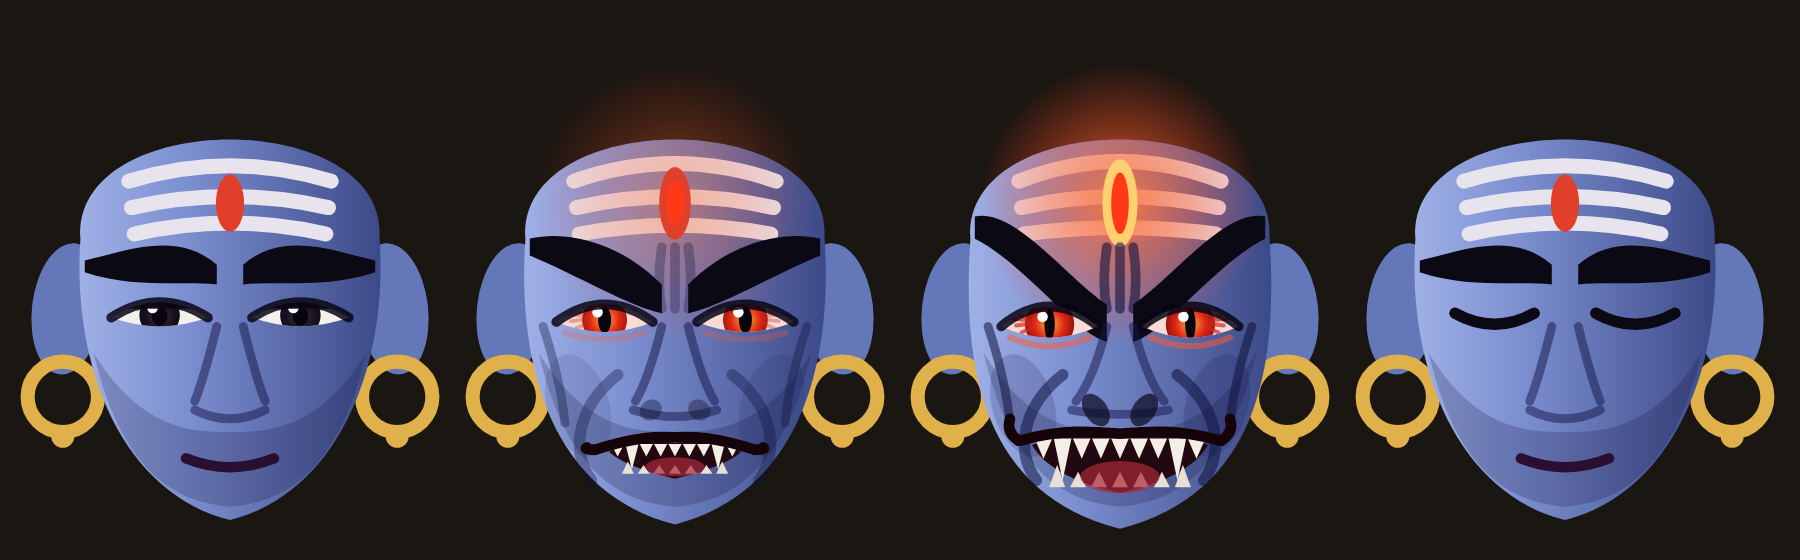
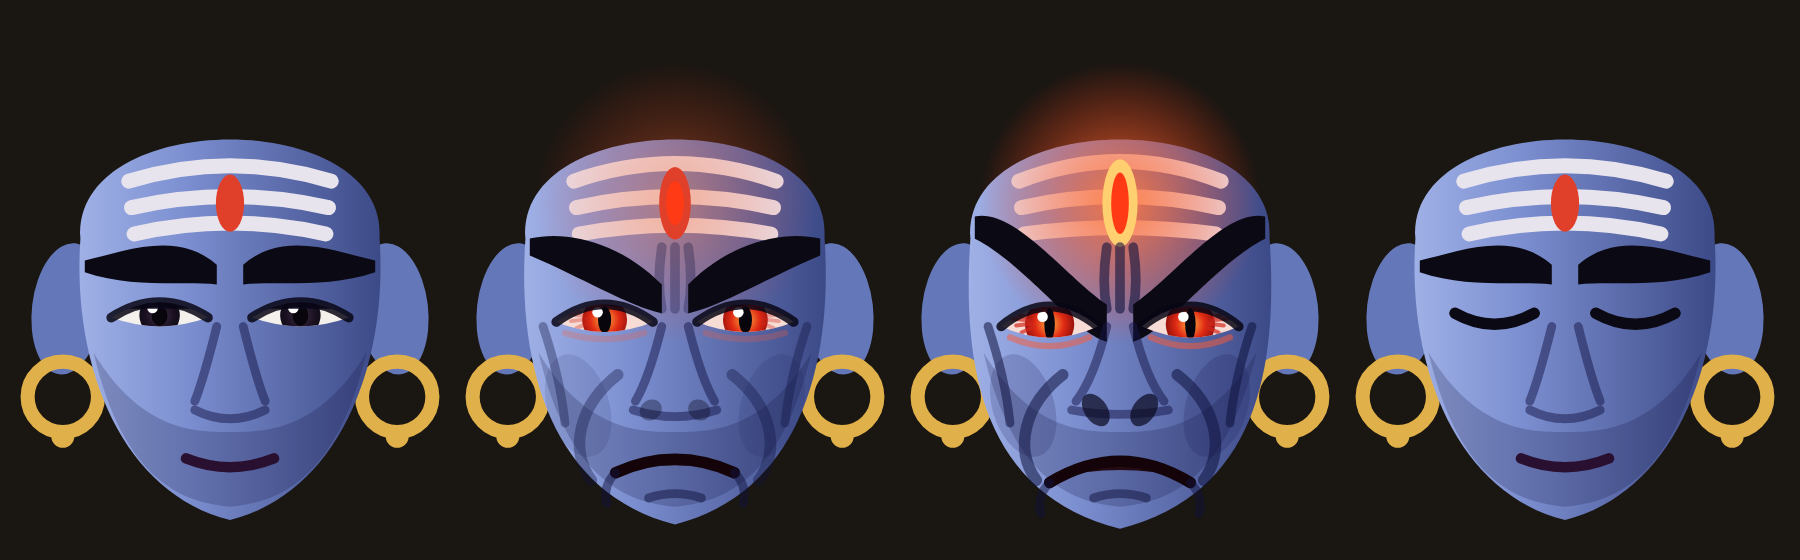
Shiva v2: restrained anger (no fangs, calm hair), clenched downturned mouth
Claude-Session: https://claude.ai/code/session_01Ec4SCj5r735t7UeJwM29yv

Changed region(s): [[0.56, 0.7589, 0.6844, 0.9107], [0.3111, 0.7589, 0.4356, 0.9107], [0.3111, 0.85, 0.3422, 0.8804]]

diff --git a/library/characters/shiva/shiva_v2.js b/library/characters/shiva/shiva_v2.js
@@ -58,18 +58,17 @@ function drawSerpent(c,t,rage,L,R){ // Vasuki around the neck, hood over right s
 function drawJata(c,hx,hy,t,rage,imp=0){ // bun of coiled jata + hanging ropes, Ganga, crescent moon
   c.save();c.translate(hx,hy);const sw=Math.sin(t*1.6)*2;
   const rope=(x0,y0,x1,y1,x2,y2,w,ph)=>{ // one rope strand with a light twist highlight
-    const dx=Math.sin(t*2.1+ph)*(5+imp*16),dx2=Math.sin(t*2.6+ph*1.7)*(8+imp*26);
+    const dx=Math.sin(t*2.1+ph)*(4+imp*5),dx2=Math.sin(t*2.6+ph*1.7)*(6+imp*8);
     c.lineCap='round';c.strokeStyle='#15122a';c.lineWidth=w;c.beginPath();c.moveTo(x0,y0);c.quadraticCurveTo(x1+dx,y1,x2+dx2,y2);c.stroke();
     c.strokeStyle='rgba(200,190,240,.22)';c.lineWidth=w*.28;c.setLineDash([w*.9,w*.7]);c.beginPath();c.moveTo(x0-w*.2,y0);c.quadraticCurveTo(x1+dx-w*.2,y1,x2+dx2-w*.2,y2);c.stroke();c.setLineDash([])};
-  const spread=rage?1.5+imp*0.8:1;
-  [-1,1].forEach((sd,k)=>{for(let i=0;i<4;i++){rope(sd*(12+i*7),-6+i*3,sd*(58+i*14)*spread,40+i*8,sd*(52+i*16)*spread+sd*imp*20,(rage?96:150)-i*14+imp*-24,13-i*1.4,i+k*2)}});
+  const spread=rage?1.12+imp*0.12:1;
+  [-1,1].forEach((sd,k)=>{for(let i=0;i<4;i++){rope(sd*(12+i*7),-6+i*3,sd*(58+i*14)*spread,40+i*8,sd*(52+i*16)*spread+sd*imp*6,150-i*14-imp*6,13-i*1.4,i+k*2)}});
   // bun
   const kg=c.createRadialGradient(-12,-70,6,0,-64,56);kg.addColorStop(0,'#4a4468');kg.addColorStop(.6,'#221f38');kg.addColorStop(1,'#0c0a18');c.fillStyle=kg;
   c.beginPath();c.ellipse(0,-66,40,52,0,0,7);c.fill();
   c.lineCap='round';for(let i=0;i<5;i++){c.strokeStyle=i%2?'rgba(200,190,240,.30)':'rgba(8,6,20,.7)';c.lineWidth=7;c.beginPath();c.ellipse(0,-66-i*2,38-i*6.2,50-i*8.6,0,0.6+i*.5,Math.PI*2+0.1+i*.5);c.stroke()}
   c.fillStyle='#14102a';c.beginPath();c.arc(0,-110,9,0,7);c.fill();
   c.fillStyle=SH.gold;c.beginPath();c.roundRect(-34,-26,68,9,4);c.fill();
-  if(rage){[-1,1].forEach(sd=>{for(let k=0;k<3;k++)rope(sd*20,-80+k*14,sd*(70+k*20),-96-k*16+sw*2,sd*(110+k*26+imp*30),-50-k*30,8,k+3)})}
   // Ganga ribbon from the bun
   c.strokeStyle=SH.water;c.lineCap='round';c.globalAlpha=.92;c.lineWidth=9;c.beginPath();c.moveTo(0,-112);c.bezierCurveTo(-34,-130,-60,-96,-48,-66);c.bezierCurveTo(-38,-38,-70,-30,-62,6+sw);c.stroke();
   c.lineWidth=3;c.strokeStyle='#fff';c.beginPath();c.moveTo(-2,-114);c.bezierCurveTo(-34,-130,-60,-96,-48,-66);c.stroke();c.globalAlpha=1;
@@ -120,17 +119,15 @@ function drawHead(c,hx,hy,o){ // o:{expr:'calm'|'closed'|'rage', k:0..1 anger bl
   if(k>.2){c.fillStyle=`rgba(10,8,30,${.7*k})`;[-1,1].forEach(sd=>{c.beginPath();c.ellipse(sd*5.5,25,2.6,3.6*k+.5,sd*.6,0,7);c.fill()})}
   // mouth: calm = soft closed line; angry = bared-teeth snarl
   if(k<0.12){c.strokeStyle='#2a1030';c.lineWidth=2.4;c.beginPath();c.moveTo(-10,36);c.quadraticCurveTo(0,40-k*10,10,36);c.stroke()}
-  else{const w=L(10,20),open=L(1,5.2);
-    c.fillStyle='#220810';c.beginPath();c.moveTo(-w,L(36,33));c.bezierCurveTo(-w*.6,L(34,29),-w*.25,L(33,31),0,L(33,32));c.bezierCurveTo(w*.25,L(33,31),w*.6,L(34,29),w,L(36,33));c.bezierCurveTo(w*.8,34+open*1.1,w*.3,35+open*1.45,0,36+open*1.5);c.bezierCurveTo(-w*.3,35+open*1.45,-w*.8,34+open*1.1,-w,L(36,33));c.fill();
-    // teeth: top row with long canines, lower row small
-    c.fillStyle='#f4efe6';const ty=L(34,31.5);
-    for(let q=-4;q<=4;q++){const x=q*w/4.6,fang=Math.abs(q)===3,h=fang?7.5*k+2:3.6*k+1;c.beginPath();c.moveTo(x-w/10,ty);c.lineTo(x,ty+h);c.lineTo(x+w/10,ty);c.closePath();c.fill()}
-    c.fillStyle='#e8e0d4';for(let q=-3;q<=3;q++){const x=q*w/4.2,by=35+open*1.45;c.beginPath();c.moveTo(x-w/11,by);c.lineTo(x,by-(Math.abs(q)===3?4.6:3)*k-.5);c.lineTo(x+w/11,by);c.closePath();c.fill()}
-    // tongue shadow
-    c.fillStyle='rgba(170,40,60,.7)';c.beginPath();c.ellipse(0,34.5+open*1.1,w*.45,open*.7,0,0,7);c.fill();
-    // upper lip line + snarl corners
-    c.strokeStyle='#14040a';c.lineWidth=2.4;c.beginPath();c.moveTo(-w-3,L(36,32));c.bezierCurveTo(-w*.6,L(33,29),-w*.25,L(32,30),0,L(32,30.4));c.bezierCurveTo(w*.25,L(32,30),w*.6,L(33,29),w+3,L(36,32));c.stroke();
-    c.beginPath();c.moveTo(-w-3,L(36,32));c.quadraticCurveTo(-w-6,L(38,30),-w-5,L(40,27));c.moveTo(w+3,L(36,32));c.quadraticCurveTo(w+6,L(38,30),w+5,L(40,27));c.stroke()}
+  else{const w=L(10,15),dn=L(0,4.5),op=L(.5,3);
+    // clenched, downturned mouth: corners pulled down, lips pressed hard
+    c.fillStyle='#240a12';c.beginPath();c.moveTo(-w,36+dn);c.quadraticCurveTo(0,35-dn*.6,w,36+dn);c.quadraticCurveTo(0,35-dn*.6+op+1.5,-w,36+dn);c.fill();
+    if(k>.45){c.save();c.beginPath();c.moveTo(-w+2,36+dn-.5);c.quadraticCurveTo(0,35-dn*.6,w-2,36+dn-.5);c.quadraticCurveTo(0,35-dn*.6+op+1,-w+2,36+dn-.5);c.clip();
+      c.fillStyle='#ece4d8';c.fillRect(-w,34-dn*.6,2*w,op+3);c.strokeStyle='rgba(60,30,30,.55)';c.lineWidth=.9;for(let q=-3;q<=3;q++){c.beginPath();c.moveTo(q*w/3.4,33);c.lineTo(q*w/3.4,42);c.stroke()}c.restore()}
+    c.strokeStyle='#14040a';c.lineWidth=2.6;c.lineCap='round';c.beginPath();c.moveTo(-w-1,36+dn+1);c.quadraticCurveTo(0,34.5-dn*.6,w+1,36+dn+1);c.stroke();
+    // chin tension + corner creases
+    c.lineWidth=2;c.strokeStyle='rgba(15,18,60,.5)';c.beginPath();c.moveTo(-w-1,36+dn+1);c.quadraticCurveTo(-w-4,40+dn,-w-3,44+dn);c.moveTo(w+1,36+dn+1);c.quadraticCurveTo(w+4,40+dn,w+3,44+dn);c.stroke();
+    c.beginPath();c.moveTo(-6,45);c.quadraticCurveTo(0,43,6,45);c.stroke()}
   c.restore()}
 
 function drawTrishul(c,x,top,bot,t,rage){ // trident with damaru + ribbons
